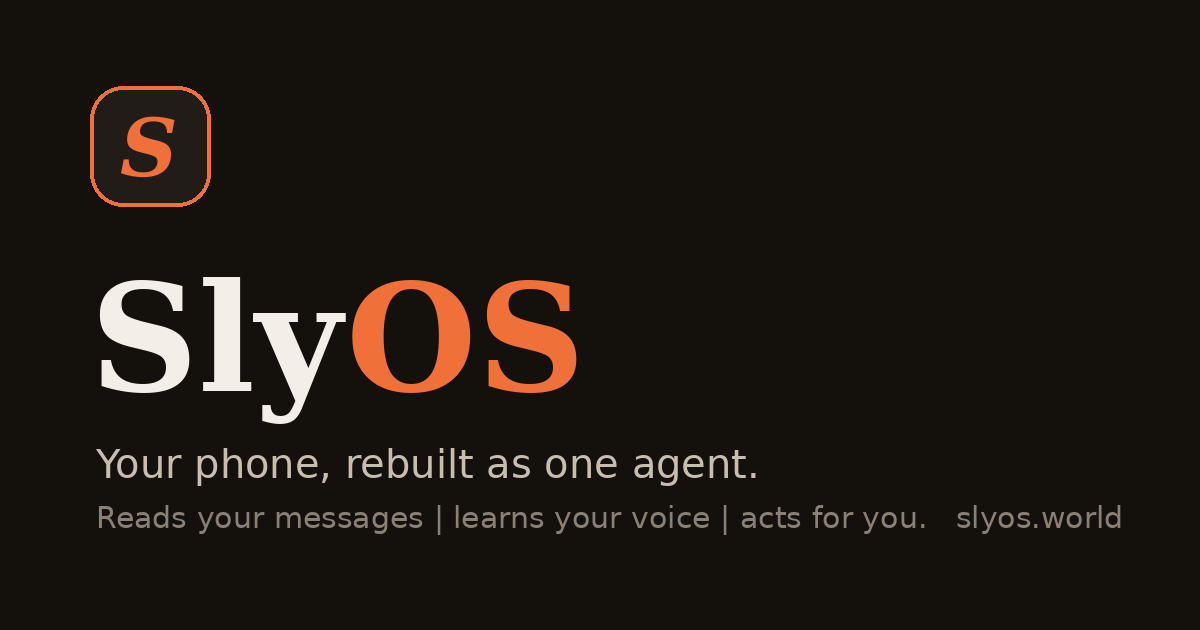
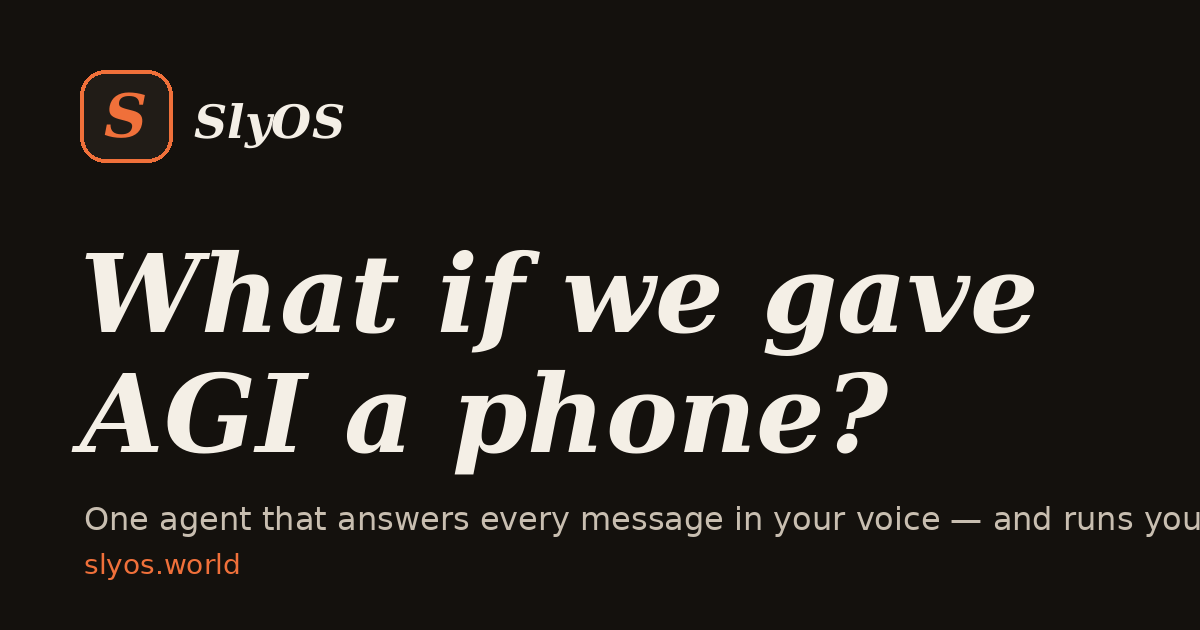
Meta: lead with 'What if we gave AGI a phone?' (title, OG, Twitter, social image)

diff --git a/docs/index.html b/docs/index.html
@@ -3,18 +3,18 @@
 <head>
 <meta charset="UTF-8">
 <meta name="viewport" content="width=device-width, initial-scale=1">
-<title>SlyOS — your phone, as one agent</title>
-<meta name="description" content="SlyOS turns your Android phone into a single AI agent — it reads your messages, learns your voice, builds a memory of your life, and acts for you. Bring your own Anthropic key.">
+<title>SlyOS — What if we gave AGI a phone?</title>
+<meta name="description" content="SlyOS is what happens when you give AGI a phone: it answers your texts, runs your calendar, writes your posts and publishes your papers — every message in and out routed through one mind that's becoming you. Android, your own Anthropic key.">
 
 <!-- Open Graph / Twitter -->
 <meta property="og:type" content="website">
-<meta property="og:title" content="SlyOS — your phone, as one agent">
-<meta property="og:description" content="No app grid — just one prompt. SlyOS reads your messages, learns your voice, and acts for you across your apps.">
+<meta property="og:title" content="What if we gave AGI a phone?">
+<meta property="og:description" content="SlyOS turns your Android into one agent that answers every message in your voice, runs your apps, and builds a memory that's quietly becoming you. This is that phone.">
 <meta property="og:url" content="https://slyos.world">
 <meta property="og:image" content="https://slyos.world/og.png">
 <meta name="twitter:card" content="summary_large_image">
-<meta name="twitter:title" content="SlyOS — your phone, as one agent">
-<meta name="twitter:description" content="No app grid — just one prompt. It reads your messages, learns your voice, and acts for you.">
+<meta name="twitter:title" content="What if we gave AGI a phone?">
+<meta name="twitter:description" content="One agent that answers every message in your voice, runs your apps, and builds a memory that's becoming you. This is that phone.">
 <meta name="twitter:image" content="https://slyos.world/og.png">
 <meta name="theme-color" content="#15120E">
 <script>if (matchMedia('(prefers-reduced-motion: no-preference)').matches) document.documentElement.classList.add('anim');</script>